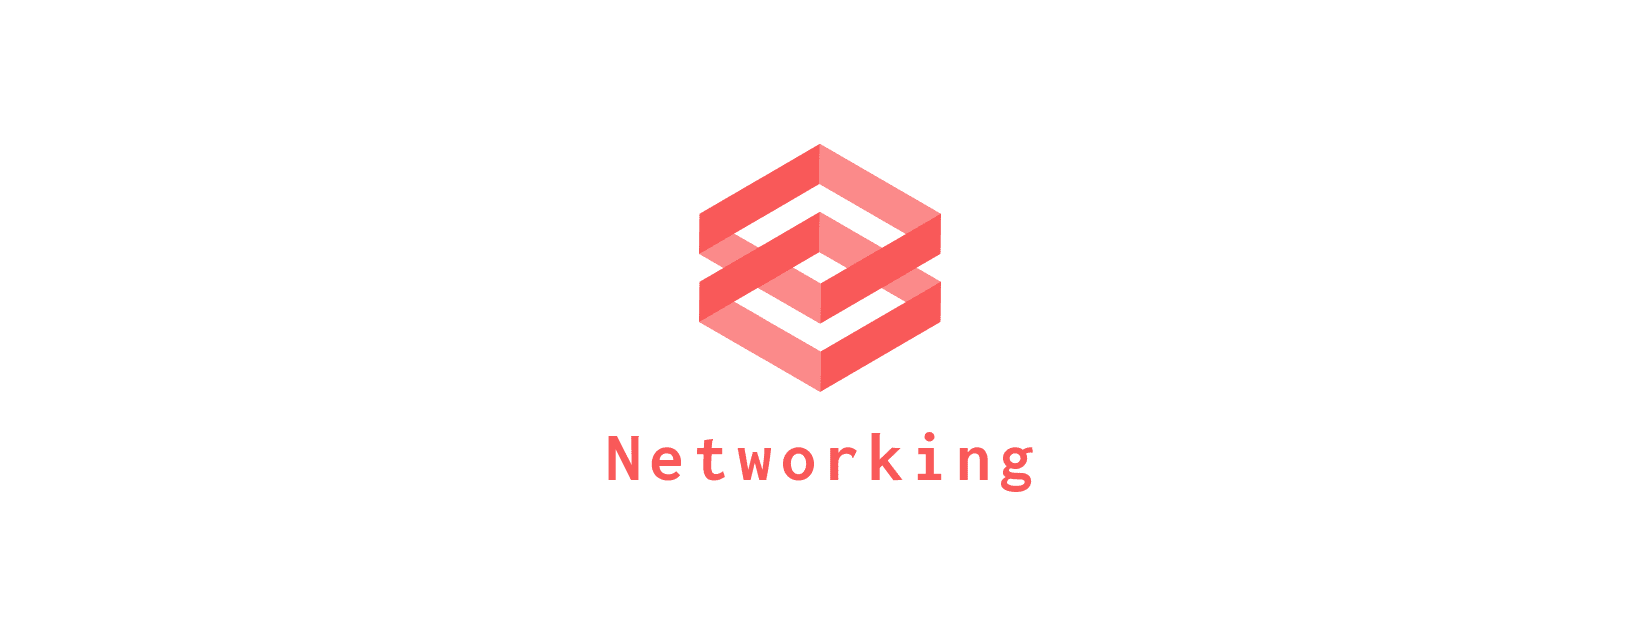
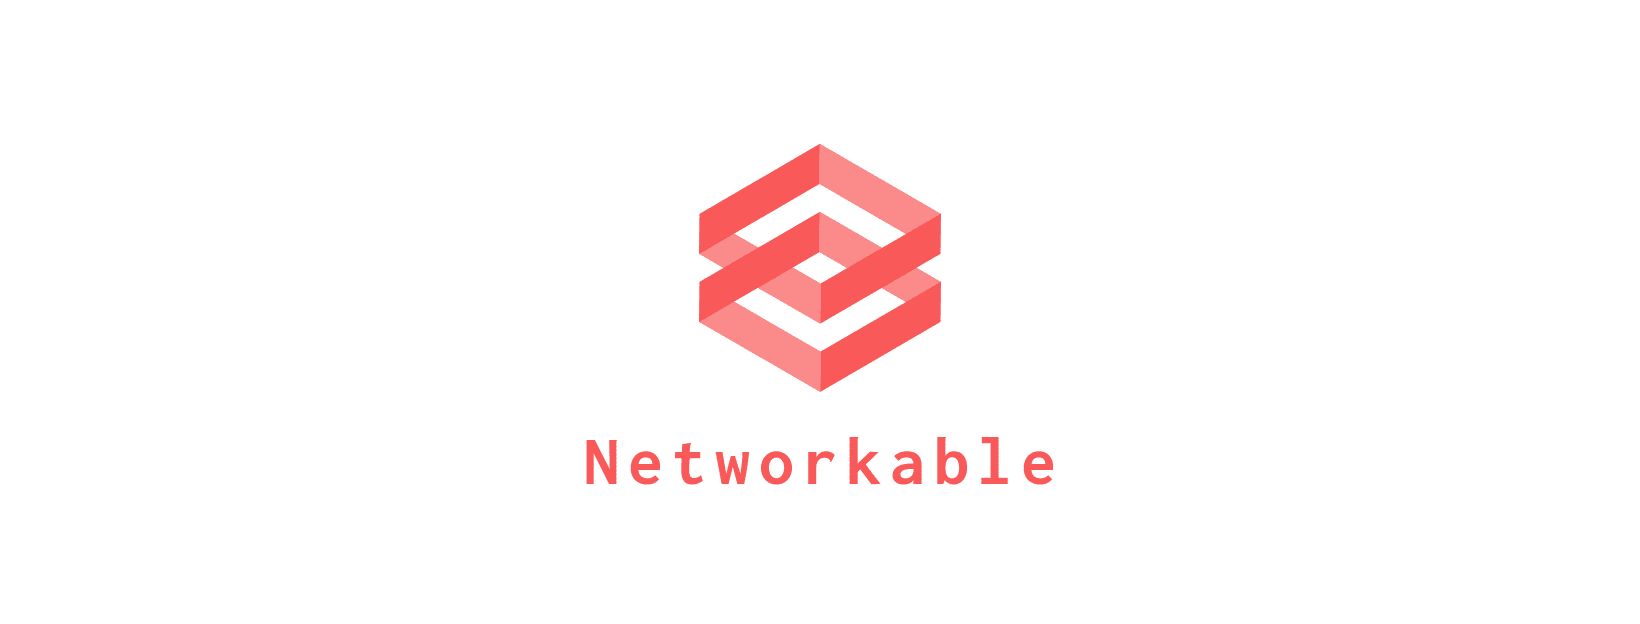
Update branding images and fix typo

Changed region(s): [[0.3421, 0.7003, 0.653, 0.7917]]

diff --git a/README.md b/README.md
@@ -44,7 +44,7 @@ struct DefaultMovieRepository: MovieRepository, Repository {
 
 extension DefaultMovieRepository {
     
-    enum APIEndpoint: Networking.Endpoint {
+    enum APIEndpoint: Networkable.Endpoint {
         
         case movie(id: Int)
         
@@ -54,7 +54,7 @@ extension DefaultMovieRepository {
             }
         }
         
-        var method: Networking.Method {
+        var method: Networkable.Method {
             switch self {
             case .movie: return .get
             }
@@ -73,7 +73,7 @@ extension DefaultMovieRepository {
 
 I have provided a sample projects in https://github.com/duytph/Moviable. To use it download the repo, wait for Xcode resolve dependency and you're good to go. 
 
-`Networiking` use cases should be found in `Repositories` directory.
+`Networkable` use cases should be found in `Repositories` directory.
 
 ## Features
 
